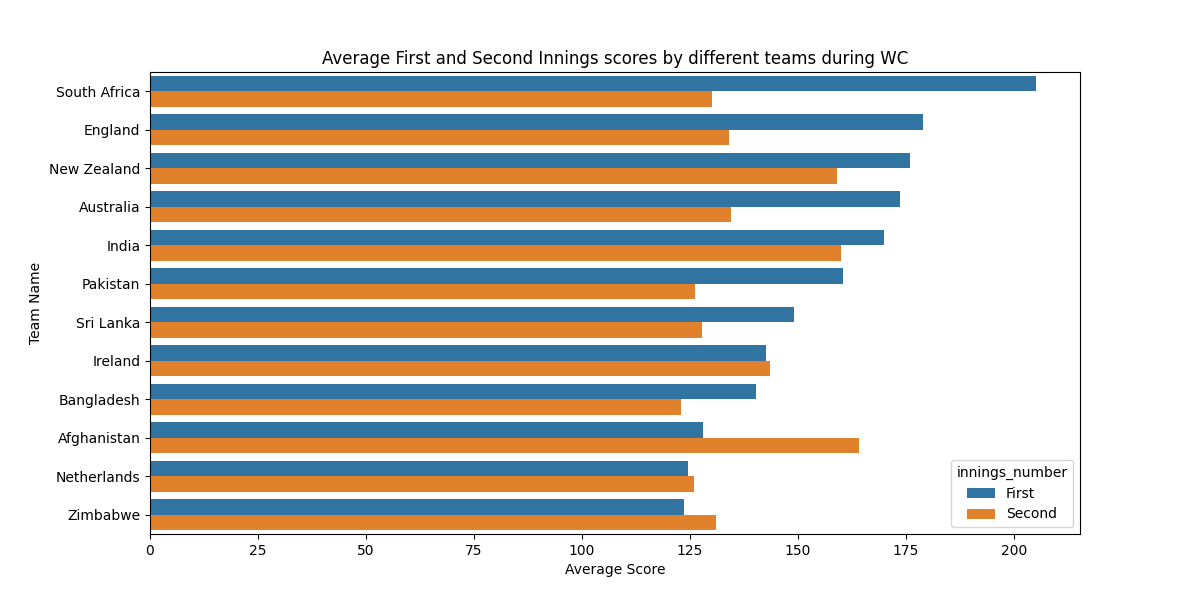
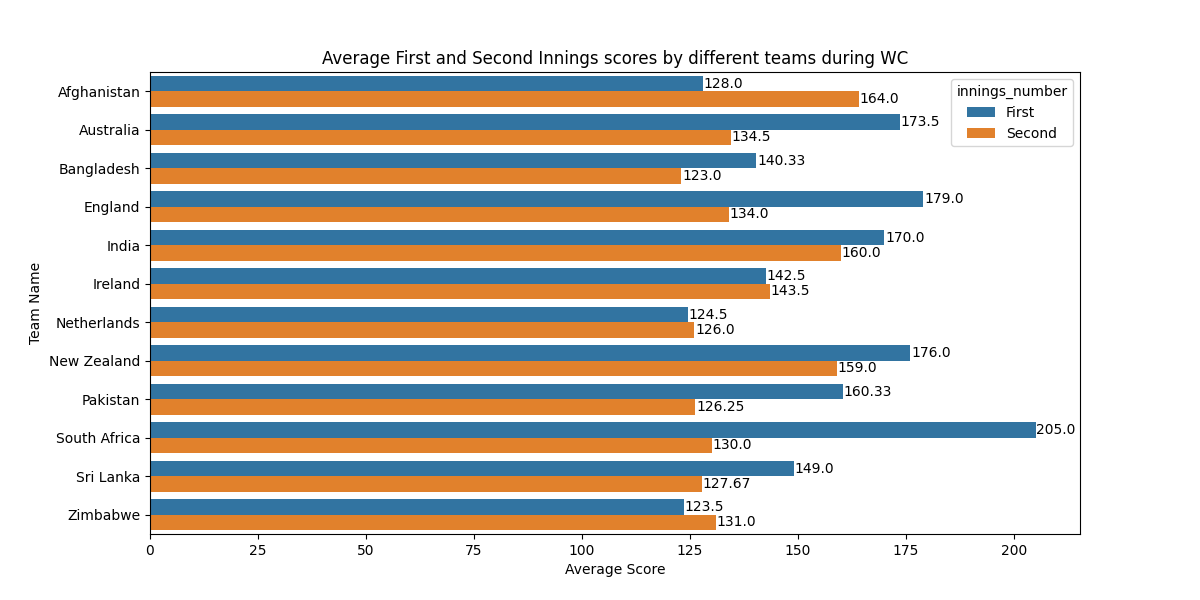
added asserts and docstrings

diff --git a/DataVisualization/wc_stats.py b/DataVisualization/wc_stats.py
@@ -1,19 +1,43 @@
 import pandas as pd
 import os
 import seaborn as sns
+import numpy as np
 
 import matplotlib.pyplot as plt
 
 def seperate_wc(df:pd.DataFrame):
+    """
+    Function to seperate the world cup matches from complete dataset
+    :params:
+        - df: complete datafram
+    
+    :returns:
+        Dataframe that only has information about matches played during this year's world cup
+    """
+
+    assert isinstance(df, pd.DataFrame)
+
     wc_df = df[(df['event'] == "ICC Men's T20 World Cup") & (df['year'] == 2022) & (df['id'] >= '1298147A')].reset_index()
     return wc_df
 
 def average_inng_total(df, innings_number='A'):
+    """
+    function to find the average innings score for all the teams
+    :param:
+        - df: complete datafram
+        - innings_number: "A" for first innings and "B" for second innings
+    
+    :returns:
+        Dataframe with average 1st/2nd innings score for each team
+    """
+
+    assert isinstance(df, pd.DataFrame)
+    assert (innings_number == "A") or (innings_number == "B")
     innings_scores = df[df['innings_number'] == innings_number]
     innings_scores = innings_scores[['team_A', 'Total_Score_A']]
     avg_inn_score = innings_scores.groupby('team_A').mean().reset_index()
     avg_inn_score.rename(columns={"team_A": "Team Name"}, inplace=True)
-    avg_inn_score = avg_inn_score.sort_values(by="Total_Score_A", axis=0, ascending=False)
+    # avg_inn_score = avg_inn_score.sort_values(by="Total_Score_A", axis=0, ascending=False)
     if innings_number == "A":
         avg_inn_score['innings_number'] = "First"
     else:
@@ -22,19 +46,56 @@ def average_inng_total(df, innings_number='A'):
 
 
 def plot_avg_scores(avg_inn_score):
-    plt.subplots(figsize=(12, 6))
+    """
+    function to plot average innings score of both innings for each team
+    :param:
+        - avg_inn_score: Dataframe that contains average score for all teams segregated into 2 innings using innings_number column
+        an example input is shown below
+        ---------------------------------------------------------
+        |   Team Name   |   Total_Score_A   |   innings_number  |
+        ---------------------------------------------------------
+        |   India       |   100             |   "First"         |
+        |   Australia   |   150             |   "Second"        |
+            .
+            .
+    """
 
+    assert isinstance(average_inng_total, pd.DataFrame)
+
+    f, ax = plt.subplots(figsize=(12, 6))
     sns.set_color_codes("pastel")
     sns.barplot(x="Total_Score_A", y=f"Team Name", data=avg_inn_score, hue='innings_number')
+
+    # for adding the win percent text
+    for i in range(12):
+        p1 = ax.patches[i]
+        p2 = ax.patches[i+12]
+        f_avg = np.round(avg_inn_score.iloc[i].Total_Score_A, 2)
+        s_avg = np.round(avg_inn_score.iloc[i+12].Total_Score_A, 2)
+        ax.text(p1.get_width()+0.15, p1.get_y() + p1.get_height()/ 2, f_avg, ha='left', va='center', fontsize=10)
+        ax.text(p2.get_width()+0.15, p2.get_y() + p2.get_height()/ 2, s_avg, ha='left', va='center', fontsize=10)
+
     plt.xlabel("Average Score")
     plt.title("Average First and Second Innings scores by different teams during WC")
     # SAVE_PATH = os.path.join(os.getcwd(), 'DataVisualization', 'plots', 'avg_wc_scores.png')
     # plt.show()
-    plt.savefig("avg_wc_scores.png")
+    # plt.savefig("avg_wc_scores.png")
     return
 
 
 def win_loss_inn_wise(wc_df):
+    """
+    function to find the win loss percentage (segregated by innings) for all teams for matches during the world cup
+    :param:
+        - wc_df: dataframe having matches from world cup only
+    
+    :returns:
+        2 Dataframes (one for batting first and one for bowling first) 
+        with team Name, win percent, number of wins and total matches played colunms
+    """
+
+    assert isinstance(wc_df, pd.DataFrame)
+
     batting_first_wins = wc_df[(wc_df['innings_number'] == 'A') & (wc_df['team_A'] == wc_df['winner'])]
     batting_first_wins_team_wise = batting_first_wins[['team_A', 'id']].groupby('team_A').count().reset_index()
     total_batting_first = wc_df[(wc_df['innings_number'] == 'A')]
@@ -52,6 +113,17 @@ def win_loss_inn_wise(wc_df):
 
 
 def win_loss_compare(wc_df):
+    """
+    function to find the win loss percentage for all teams for matches during the world cup
+    :param:
+        - wc_df: dataframe having matches from world cup only
+    
+    :returns:
+        Dataframe with team Name, win percent, number of wins and total matches played colunms
+    """
+
+    assert isinstance(wc_df, pd.DataFrame)
+
     wc_df['teamA_winner'] = (wc_df['team_A'] == wc_df['winner'])
     wins = wc_df[['team_A', 'teamA_winner']].groupby('team_A').sum().reset_index()
     total = wc_df[['team_A', 'teamA_winner']].groupby('team_A').count().reset_index()
@@ -74,16 +146,18 @@ def win_loss_compare(wc_df):
     plt.title('Country wise Win-Loss Record for WC')
     # SAVE_PATH = os.path.join(os.getcwd(), 'DataVisualization', 'plots', 'wc_win_loss.png')
     # plt.show()
-    plt.savefig("wc_win_loss.png")
+    # plt.savefig("wc_win_loss.png")
 
 if __name__ == "__main__":
-    df = pd.read_csv("DataProcessing/result_post_step.csv")
+    BASE_PATH = os.getcwd()
+    DATABASE_PATH = os.path.join(BASE_PATH, "DataProcessing", "result_post_step.csv")
+    df = pd.read_csv(DATABASE_PATH)
     wc_df = seperate_wc(df)
     avg_inn1_score = average_inng_total(wc_df, 'A')
     avg_inn2_score = average_inng_total(wc_df, 'B')
     avg_inn_score = pd.concat([avg_inn1_score, avg_inn2_score], ignore_index=True)
-    b1, b2 = win_loss_inn_wise(wc_df)
-    print(b1, b2, sep="\n\n")
+    # b1, b2 = win_loss_inn_wise(wc_df)
+    # print(b1, b2, sep="\n\n")
     plot_avg_scores(avg_inn_score)
     win_loss_compare(wc_df)
     plt.show()

diff --git a/DataVisualization/win_loss.py b/DataVisualization/win_loss.py
@@ -6,6 +6,12 @@ import matplotlib.pyplot as plt
 def winloss(full_data: pd.DataFrame):
     """
     function to extract useful data for win-loss record and create corresponding visualization 
+    :params:
+        - full_data: complete database
+    
+    :returns:
+        plots win-loss percentage for all countries from 2016 sorted by win percent
+
     """
     assert isinstance(full_data, pd.DataFrame)
 
